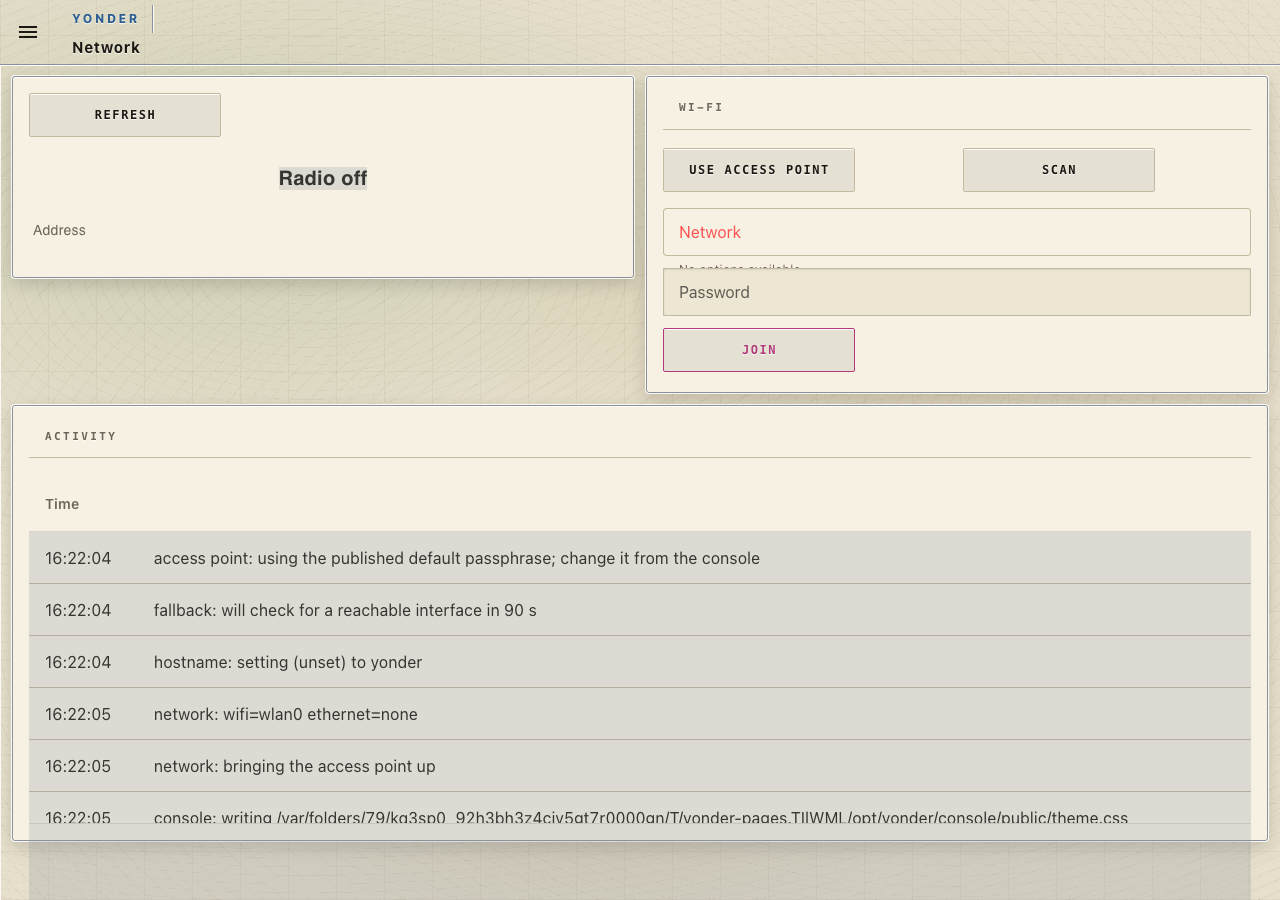
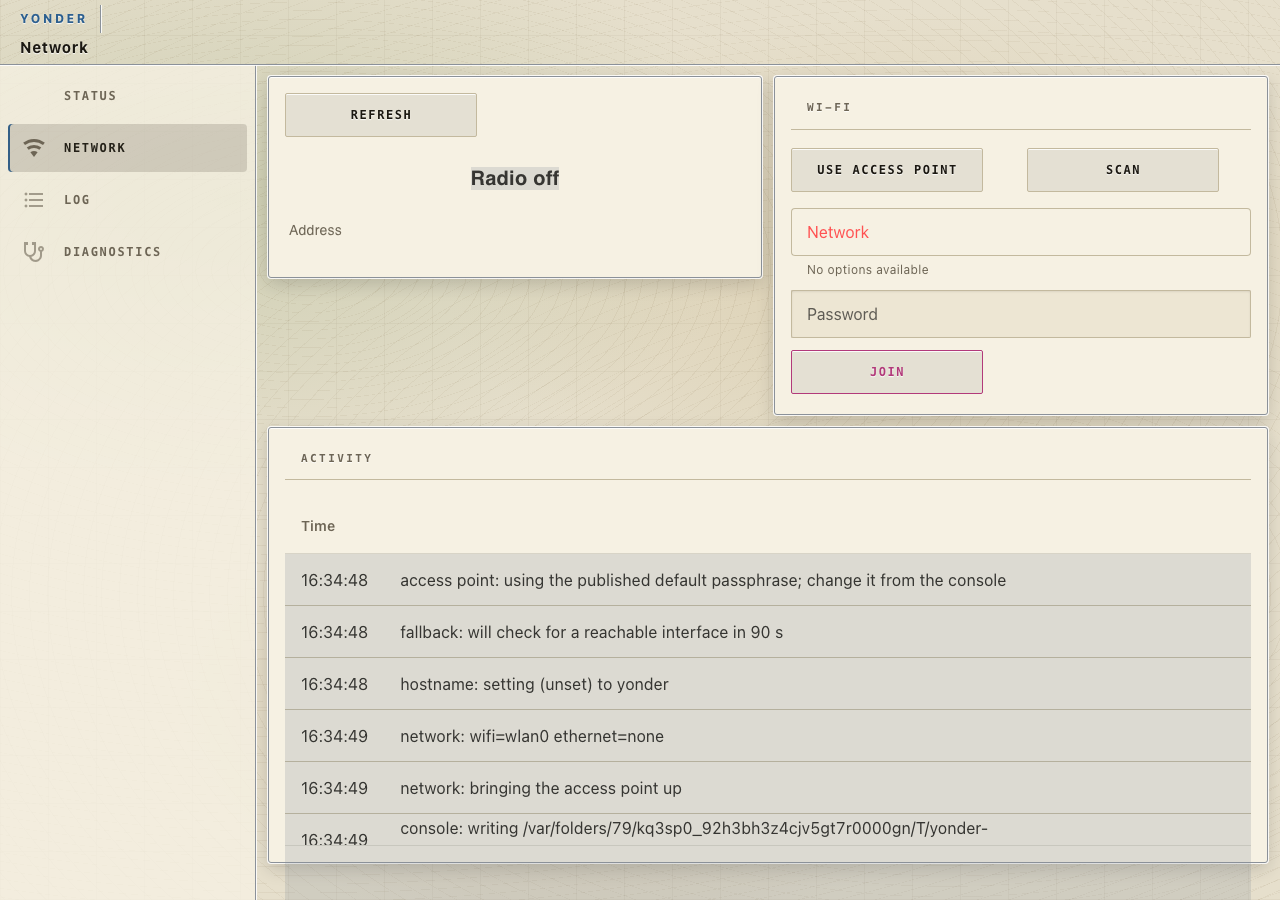
fix(console): a dropdown spilled onto the field below it, and the nav pane hid
Two things an operator saw and the gate did not.

**The network dropdown overflowed onto the password field.** Its widget box is
48px and Vuetify gives it 70 once a message sits under the field, and because
that widget does not scroll the extra 22px did not hide — it escaped, and the
next widget was painted over the top of it. "No options available" was
underneath a password box.

Same cause as the form clipping, opposite symptom, and the gate was only
looking for the first one: it tested boxes that scroll, so a box that spills
was invisible to it. It now checks any widget whose content exceeds its box,
and says which of the two it is. The theme sizes a dropdown to its content the
way it already did for prose and forms.

**And the navigation pane was a drawer at every width.** Dashboard's `default`
navigationStyle is "Collapsing", so a console on a laptop hid its own four
pages behind a hamburger for no reason. `fixed` shows the pane, and the client
still falls back to a drawer when the viewport is actually narrow — so R-UI-04
keeps what it needs on a tablet without the desktop giving up its nav.

K-31 is narrowed to what is left of it: the dropdown's label is still red
before a scan, because Vuetify resolves that from `--v-theme-error` rather
than from anything a stylesheet can reach. Cosmetic, and recorded rather than
hidden.

859 tests, lint clean, gate green.

R-UI-04, R-UI-12.

diff --git a/packages/yonder-core/src/flows.test.ts b/packages/yonder-core/src/flows.test.ts
@@ -256,6 +256,21 @@ describe("flows/flows.json", () => {
   });
 
   /** All four pages M1b-2 owes, each with something on it. */
+  /**
+   * The navigation pane is visible, not hidden behind a hamburger.
+   *
+   * Dashboard's `default` is "Collapsing": the pane is a drawer at every
+   * width, so a console on a laptop hides its own four pages behind a button
+   * for no reason. `fixed` shows the pane, and the client still falls back to
+   * a drawer when it is actually narrow — `navigationStyle === "fixed" &&
+   * isMobile ? "temporary" : navigationStyle` — which is what R-UI-04 wants
+   * on a tablet without giving up the pane on everything else.
+   */
+  it("shows the navigation pane rather than collapsing it at every width", () => {
+    const base = flows.find((n) => n.type === "ui-base");
+    expect(base?.navigationStyle, "default collapses the pane at every width").toBe("fixed");
+  });
+
   it("serves the four pages this milestone is for", () => {
     const pages = flows.filter((n) => n.type === "ui-page");
     expect(pages.map((p) => p.name).sort())

diff --git a/packages/yonder-core/src/console/theme.ts b/packages/yonder-core/src/console/theme.ts
@@ -744,10 +744,18 @@ ${panelCss(theme)}
    a gauge, where the shape is the point. It is never legitimate for something
    an operator has to read or fill in.
 
+   A dropdown belongs here too, and it took an operator's eye to notice. Its
+   box is 48px and its content 70 once Vuetify adds a message under the field,
+   and because the widget does not scroll, the extra 22px does not hide - it
+   escapes, and the next widget is painted over the top of it. Same cause as
+   the form, opposite symptom, and the gate was only looking for the first
+   one.
+
    Anything added here needs the same test in theme.test.ts, because the cost
    of getting it wrong is silent. */
 .nrdb-ui-widget.nrdb-ui-markdown,
-.nrdb-ui-widget.nrdb-ui-form {
+.nrdb-ui-widget.nrdb-ui-form,
+.nrdb-ui-widget.nrdb-ui-dropdown {
   grid-row-end: auto !important;
   grid-template-rows: none !important;
   height: auto !important;

diff --git a/packages/yonder-core/src/console/theme.test.ts b/packages/yonder-core/src/console/theme.test.ts
@@ -415,7 +415,7 @@ describe("themeCss carries the instrument roles (ADR-0009)", () => {
 
 describe("themeCss never clips content an operator has to act on", () => {
   /** The widget types whose height is a function of content, not of shape. */
-  const sizesToContent = ["nrdb-ui-markdown", "nrdb-ui-form"];
+  const sizesToContent = ["nrdb-ui-markdown", "nrdb-ui-form", "nrdb-ui-dropdown"];
 
   for (const t of ["day", "night"] as ThemeName[]) {
     for (const type of sizesToContent) {

diff --git a/docs/known-issues.md b/docs/known-issues.md
@@ -609,18 +609,25 @@ exactly this and stopped naming it in the same change, so nothing was watching e
 apply that does not move the radio still goes through the engine's confirmation timer, so
 there may be a real caller here rather than a deletion.
 
-### K-31 · The network dropdown shows an error state before anything is scanned
+### K-31 · The network dropdown's label is red before anything is scanned
 
 `join-ssid` is a required `ui-dropdown` with no options until a scan fills it, and Vuetify
 paints an empty required select in its error colour. So a page an operator has only just
-opened labels "Network" in red and says "No options available" — shouting about a list they
-have not asked for yet, in the one place the console should look calm.
+opened labels "Network" in red — shouting about a list they have not asked for yet, in the
+one place the console should look calm.
 
-The generated stylesheet quietens the field outline and the helper text, and the *label*
-still comes through red: Vuetify resolves it from `--v-theme-error` rather than from a
+The generated stylesheet quietens the field outline and the helper text; the *label* still
+comes through red, because Vuetify resolves it from `--v-theme-error` rather than from a
 class the theme can reach, and setting that variable per widget needs the palette to carry
 RGB triplets it does not have.
 
-Cosmetic, and it is on the page an operator sees first. **Closes when** either the palette
-gains the triplets Vuetify wants, or the dropdown stops being `required` until a scan has
-run — which is arguably the truer fix, since before a scan there is nothing to require.
+**The worse half of this is fixed.** The message also *escaped its widget* — a 48px box
+with 70px of content — and the password field, four pixels below, was painted over the top
+of it. The theme now sizes a dropdown to its content the way it already did for prose and
+forms, and the capture gate looks for content that spills as well as content that hides,
+which it did not before. That was found by eye on a running console, which is the check
+the gate is meant to make unnecessary.
+
+What is left is cosmetic. **Closes when** either the palette gains the triplets Vuetify
+wants, or the dropdown stops being `required` until a scan has run — arguably the truer
+fix, since before a scan there is nothing to require.
